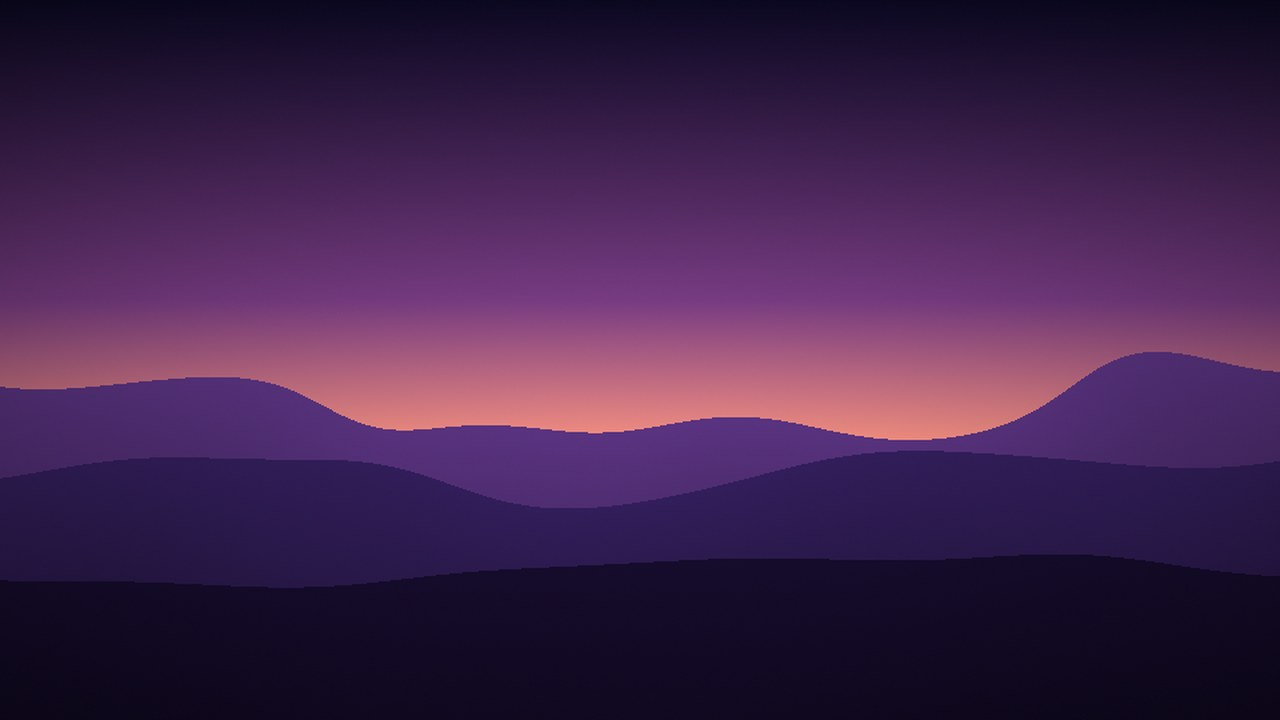
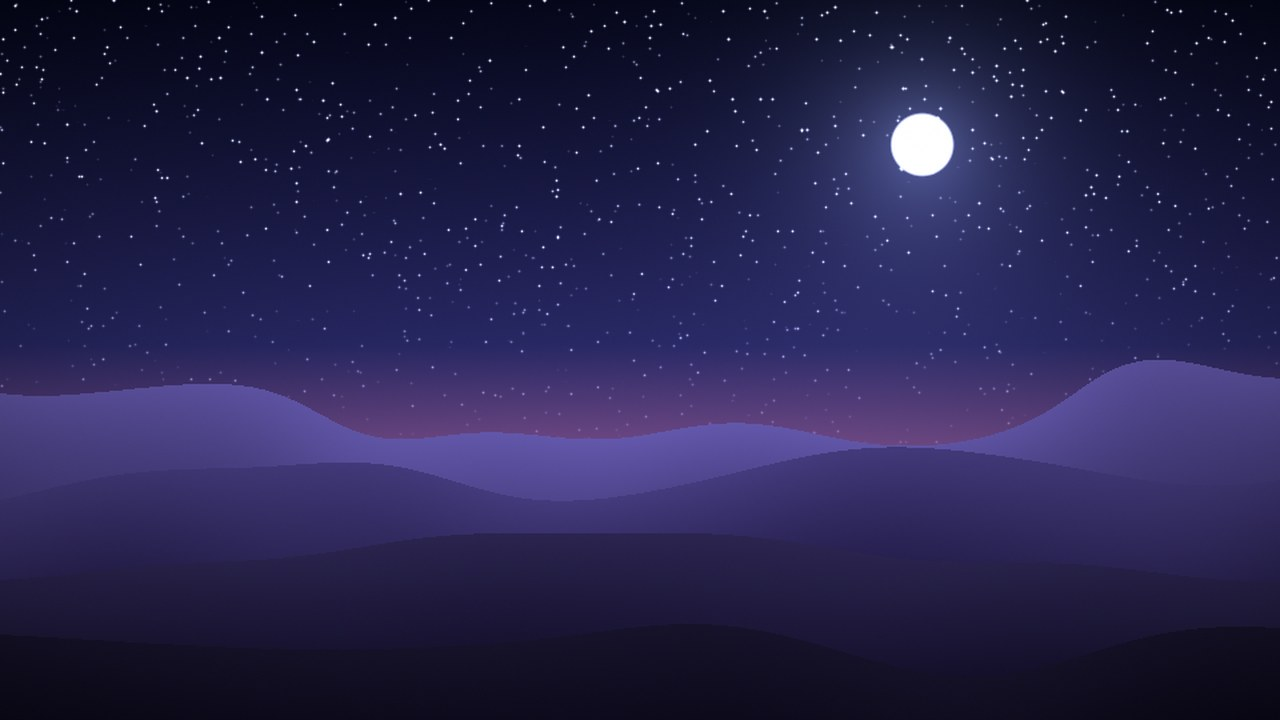
More and prettier wallpapers (galaxy, city night, moon lake, sunset, peaks)
Claude-Session: https://claude.ai/code/session_0125bZ8VaTjMzqJzWk3GbnfQ

diff --git a/renderer/wall.js b/renderer/wall.js
@@ -6,8 +6,11 @@
     { id: 'nebula', name: 'Nebula', cat: 'Space', live: true, layer: 'scroll', speed: 120 },
     { id: 'synthwave', name: 'Synthwave', cat: 'Colors', live: true, layer: 'pulse' },
     { id: 'sakura', name: 'Sakura Dusk', cat: 'Nature', live: true, layer: 'scroll', speed: 45 },
+    { id: 'galaxy', name: 'Galaxy', cat: 'Space', live: true, layer: 'pulse' },
     { id: 'ocean', name: 'Ocean Sunset', cat: 'Nature', live: false },
     { id: 'mountains', name: 'Dusk Peaks', cat: 'Nature', live: false },
+    { id: 'citynight', name: 'City Night', cat: 'Dark', live: false },
+    { id: 'moonlake', name: 'Moon Lake', cat: 'Nature', live: false },
     { id: 'forest', name: 'Misty Forest', cat: 'Nature', live: false },
     { id: 'ember', name: 'Ember', cat: 'Colors', live: false },
     { id: 'ice', name: 'Glacier', cat: 'Colors', live: false },

diff --git a/kaczo-mod-src/src/main/java/pl/kaczo/hud/Wallpapers.java b/kaczo-mod-src/src/main/java/pl/kaczo/hud/Wallpapers.java
@@ -26,8 +26,11 @@ public final class Wallpapers {
             new Wp("nebula", "Nebula", "Space", true, "nebula", 960, 540, "nebula_l", 1, 5f),
             new Wp("synthwave", "Synthwave", "Colors", true, "synthwave", 960, 540, "synthwave_l", 2, 0f),
             new Wp("sakura", "Sakura Dusk", "Nature", true, "sakura", 960, 540, "sakura_l", 1, 14f),
+            new Wp("galaxy", "Galaxy", "Space", true, "galaxy", 960, 540, "galaxy_l", 2, 0f),
             new Wp("ocean", "Ocean Sunset", "Nature", false, "ocean", 960, 540, null, 0, 0),
             new Wp("mountains", "Dusk Peaks", "Nature", false, "mountains", 960, 540, null, 0, 0),
+            new Wp("citynight", "City Night", "Dark", false, "citynight", 960, 540, null, 0, 0),
+            new Wp("moonlake", "Moon Lake", "Nature", false, "moonlake", 960, 540, null, 0, 0),
             new Wp("forest", "Misty Forest", "Nature", false, "forest", 960, 540, null, 0, 0),
             new Wp("ember", "Ember", "Colors", false, "ember", 960, 540, null, 0, 0),
             new Wp("ice", "Glacier", "Colors", false, "ice", 960, 540, null, 0, 0),
